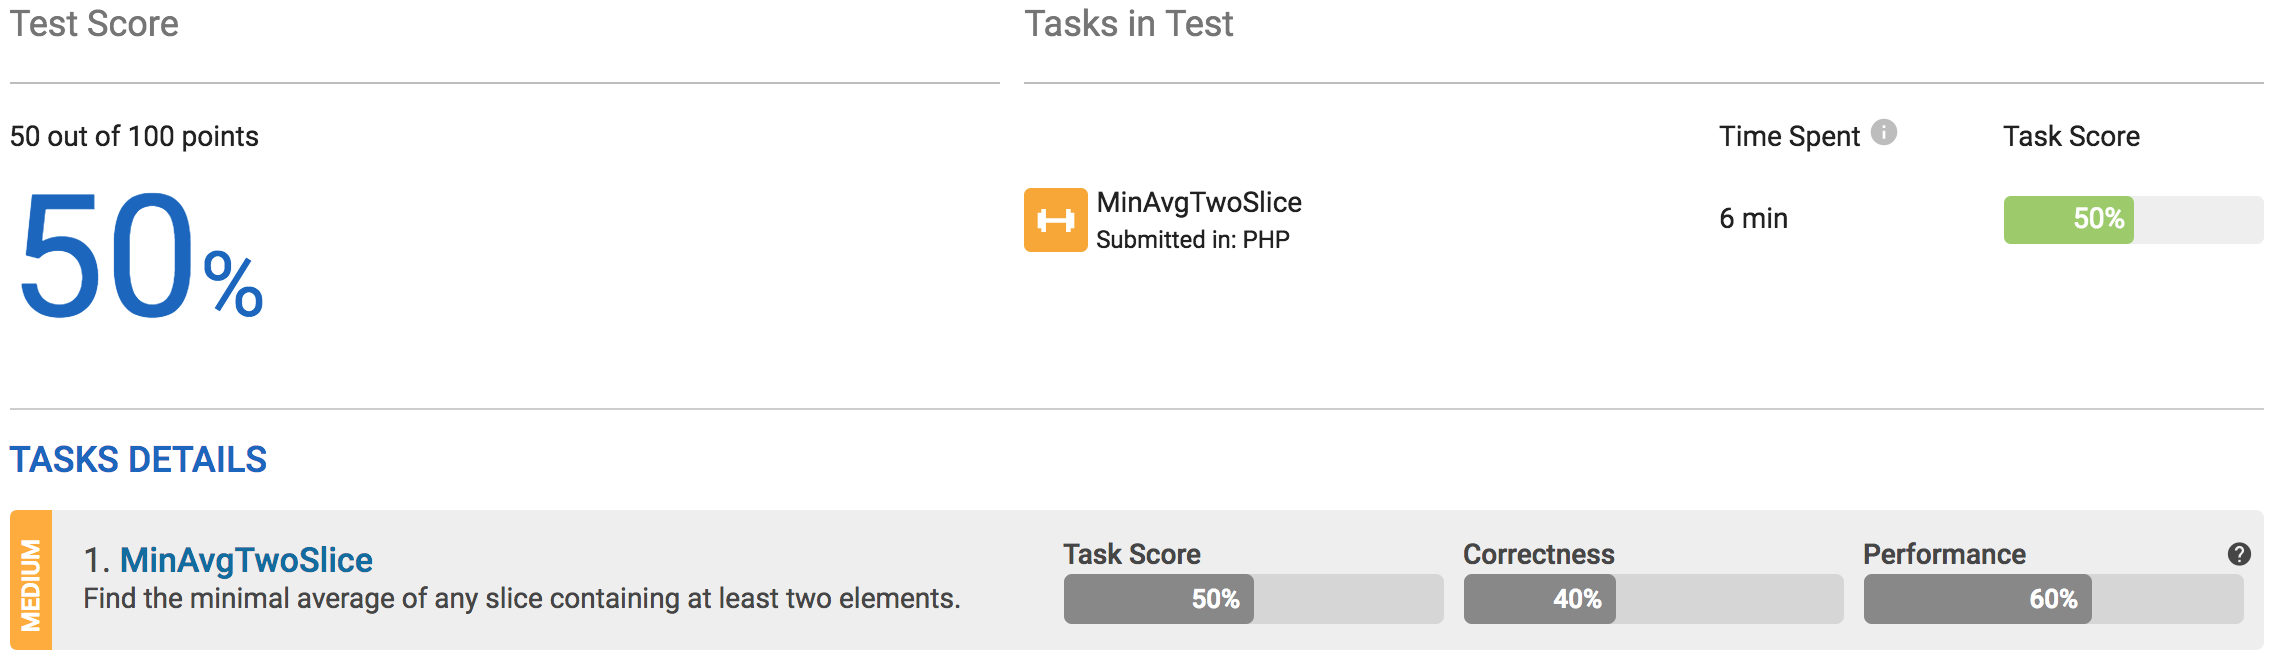
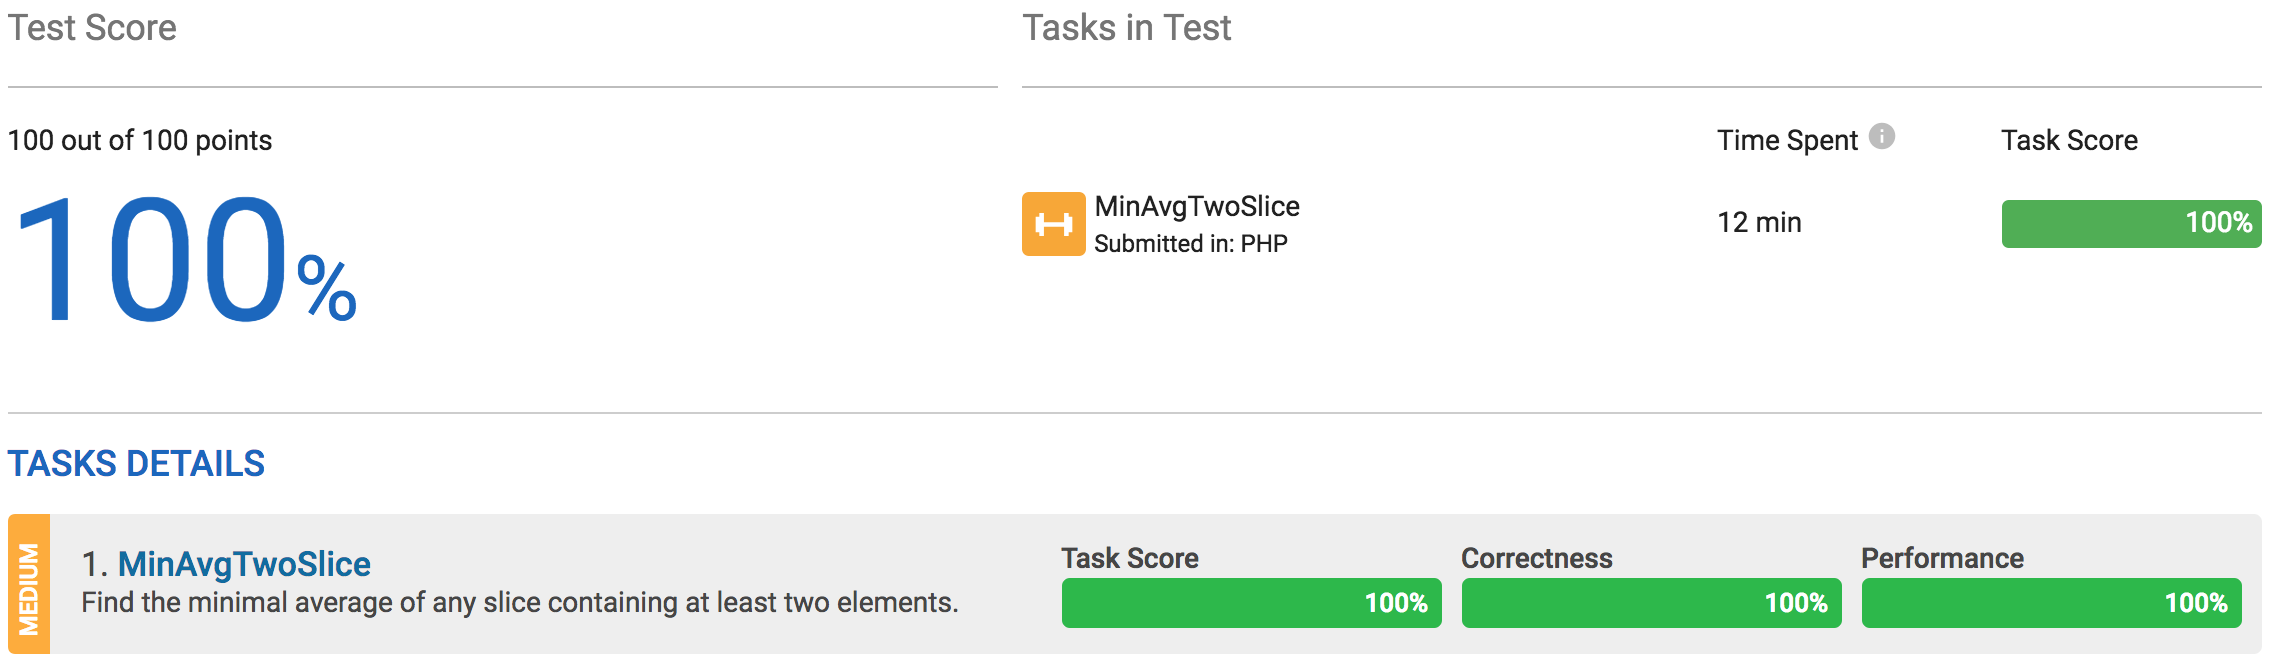
Awesome Completed for MinAvgTwoSlice of Lesson_5_PrefixSums.

diff --git a/Lessons/5_PrefixSums/Tasks_MinAvgTwoSlice/Answer.php b/Lessons/5_PrefixSums/Tasks_MinAvgTwoSlice/Answer.php
@@ -16,12 +16,16 @@ function solution($A) {
     {
         if ($A[$i] < -10000 || $A[$i] > 10000) return 0;
 
-        if (!isset($A[$i])) break;
+        if (!isset($A[$i + 1])) break;
+
+        if ($A[$i + 1] < -10000 || $A[$i + 1] > 10000) return 0;
 
         if ($i === 0)
         {
             $start = 0;
             $min = ($A[$i] + $A[$i + 1]) / 2;
+
+            continue;
         }
 
         $tmp = ($A[$i] + $A[$i + 1]) / 2;
@@ -30,6 +34,19 @@ function solution($A) {
         {
             $start = $i;
             $min = $tmp;
+        }
+
+        if (isset($A[$i + 2]))
+        {
+            if ($A[$i + 2] < -10000 || $A[$i + 2] > 10000) return 0;
+
+            $tmp = ($A[$i] + $A[$i + 1] + $A[$i + 2]) / 3;
+
+            if ($tmp < $min)
+            {
+                $start = $i;
+                $min = $tmp;
+            }
         }
     }
 
